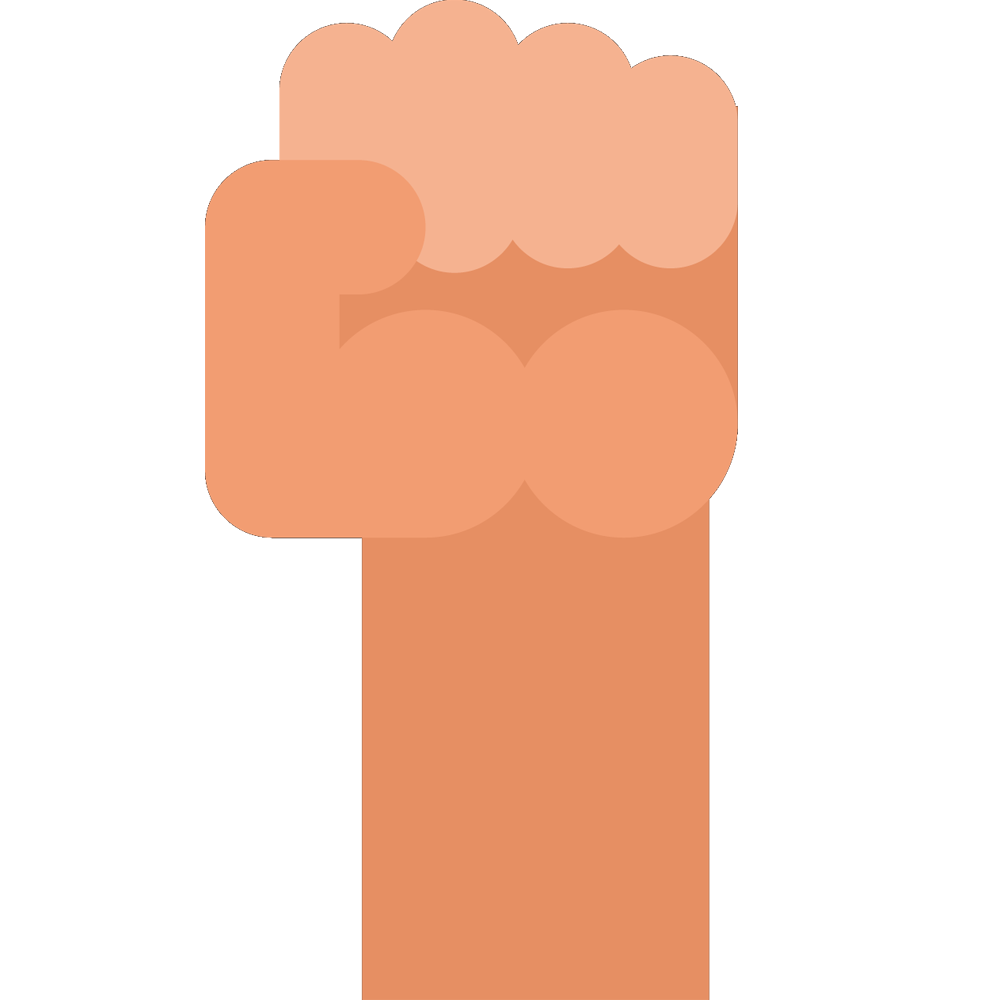
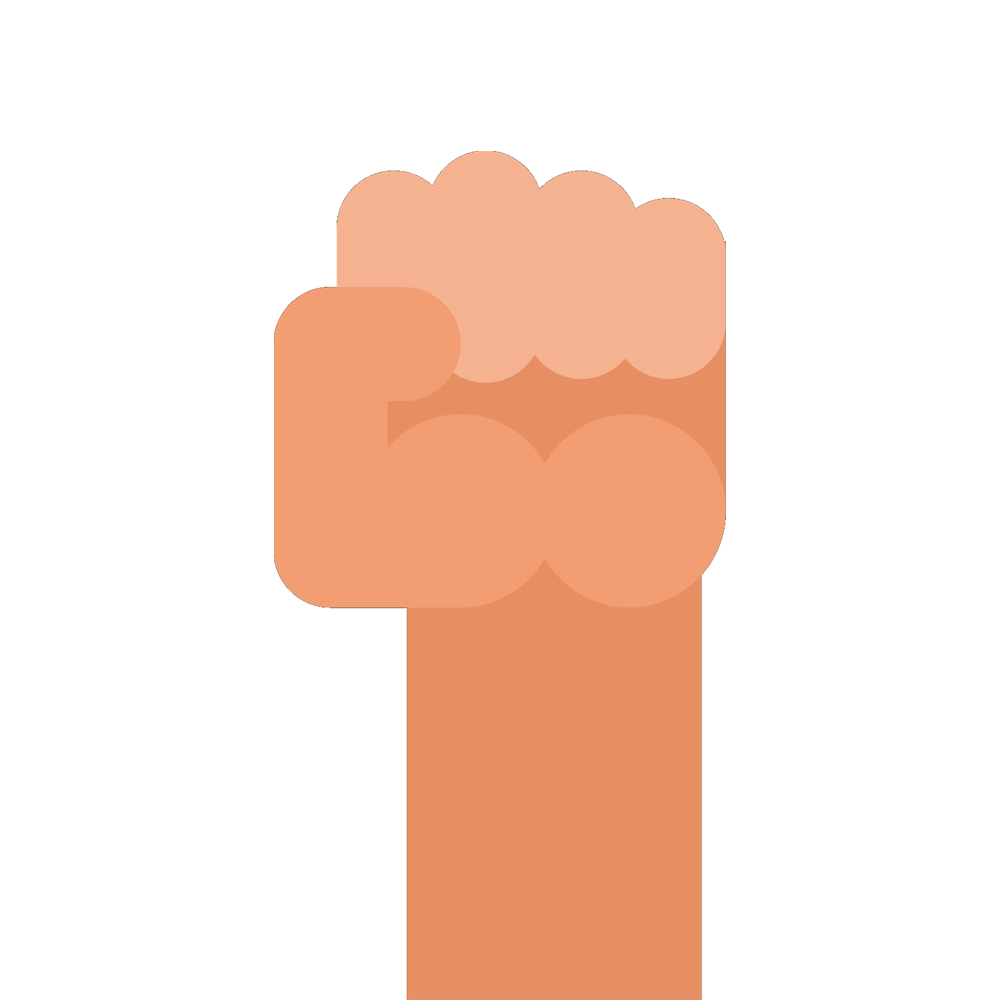
size of hands changed

Changed region(s): [[0.186, 0.0, 0.744, 1.0]]

diff --git a/styles.css b/styles.css
@@ -211,29 +211,29 @@ padding: 4px 7px;
 .rightHands>div>img{
    
         position: absolute;
-        width: 350px;
+        width: 400px;
         top: 250px;
-        right: -350px;
+        right: -400px;
     
 }
 
 .leftHands>div>img{
    
     position: absolute;
-    width: 350px;
+    width: 400px;
     top: 250px;
     right: 100%;
 }
  
 .DefaultRightHands{
     position: absolute;
-    width: 350px;
+    width: 400px;
     top: 250px;
-    right:  -350px;
+    right:  -400px;
 }
 .DefaultLeftHands{
     position: absolute;
-    width: 350px;
+    width: 400px;
     top: 250px;
     right: 100%;
 }
